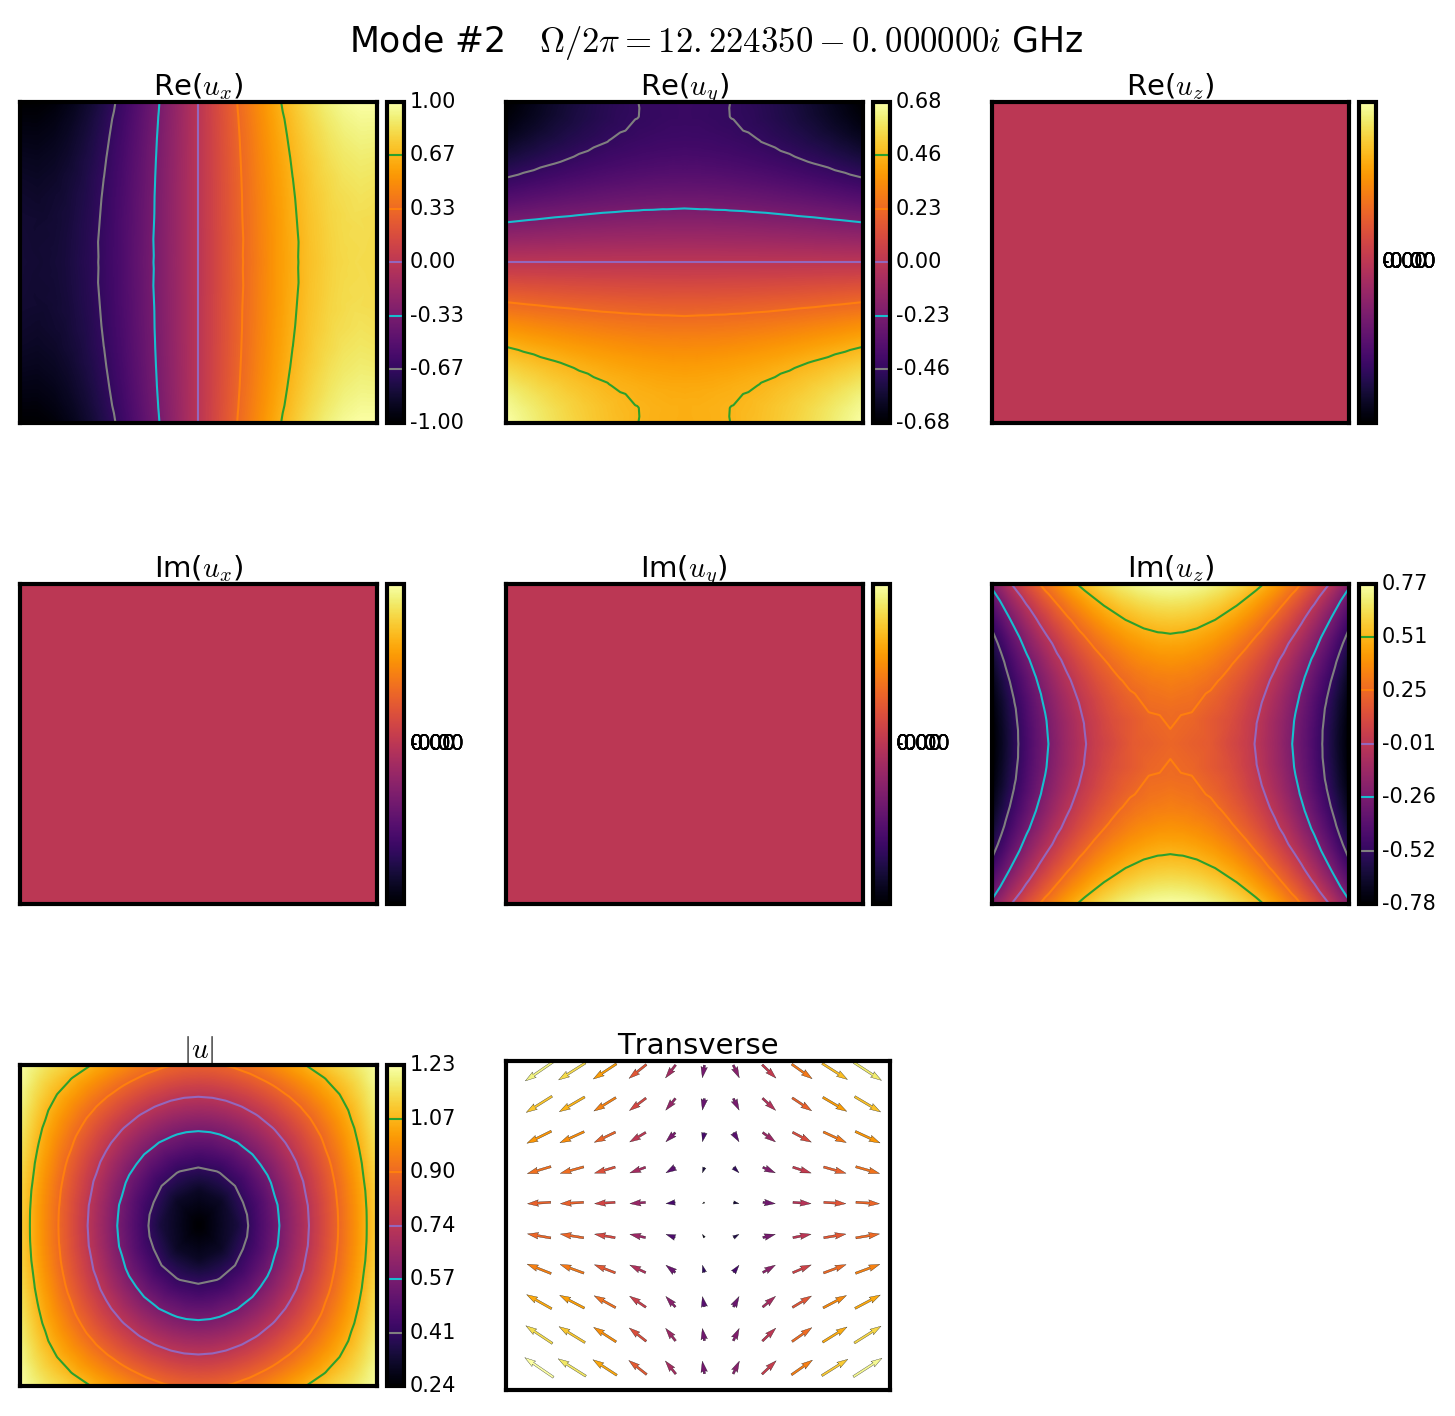
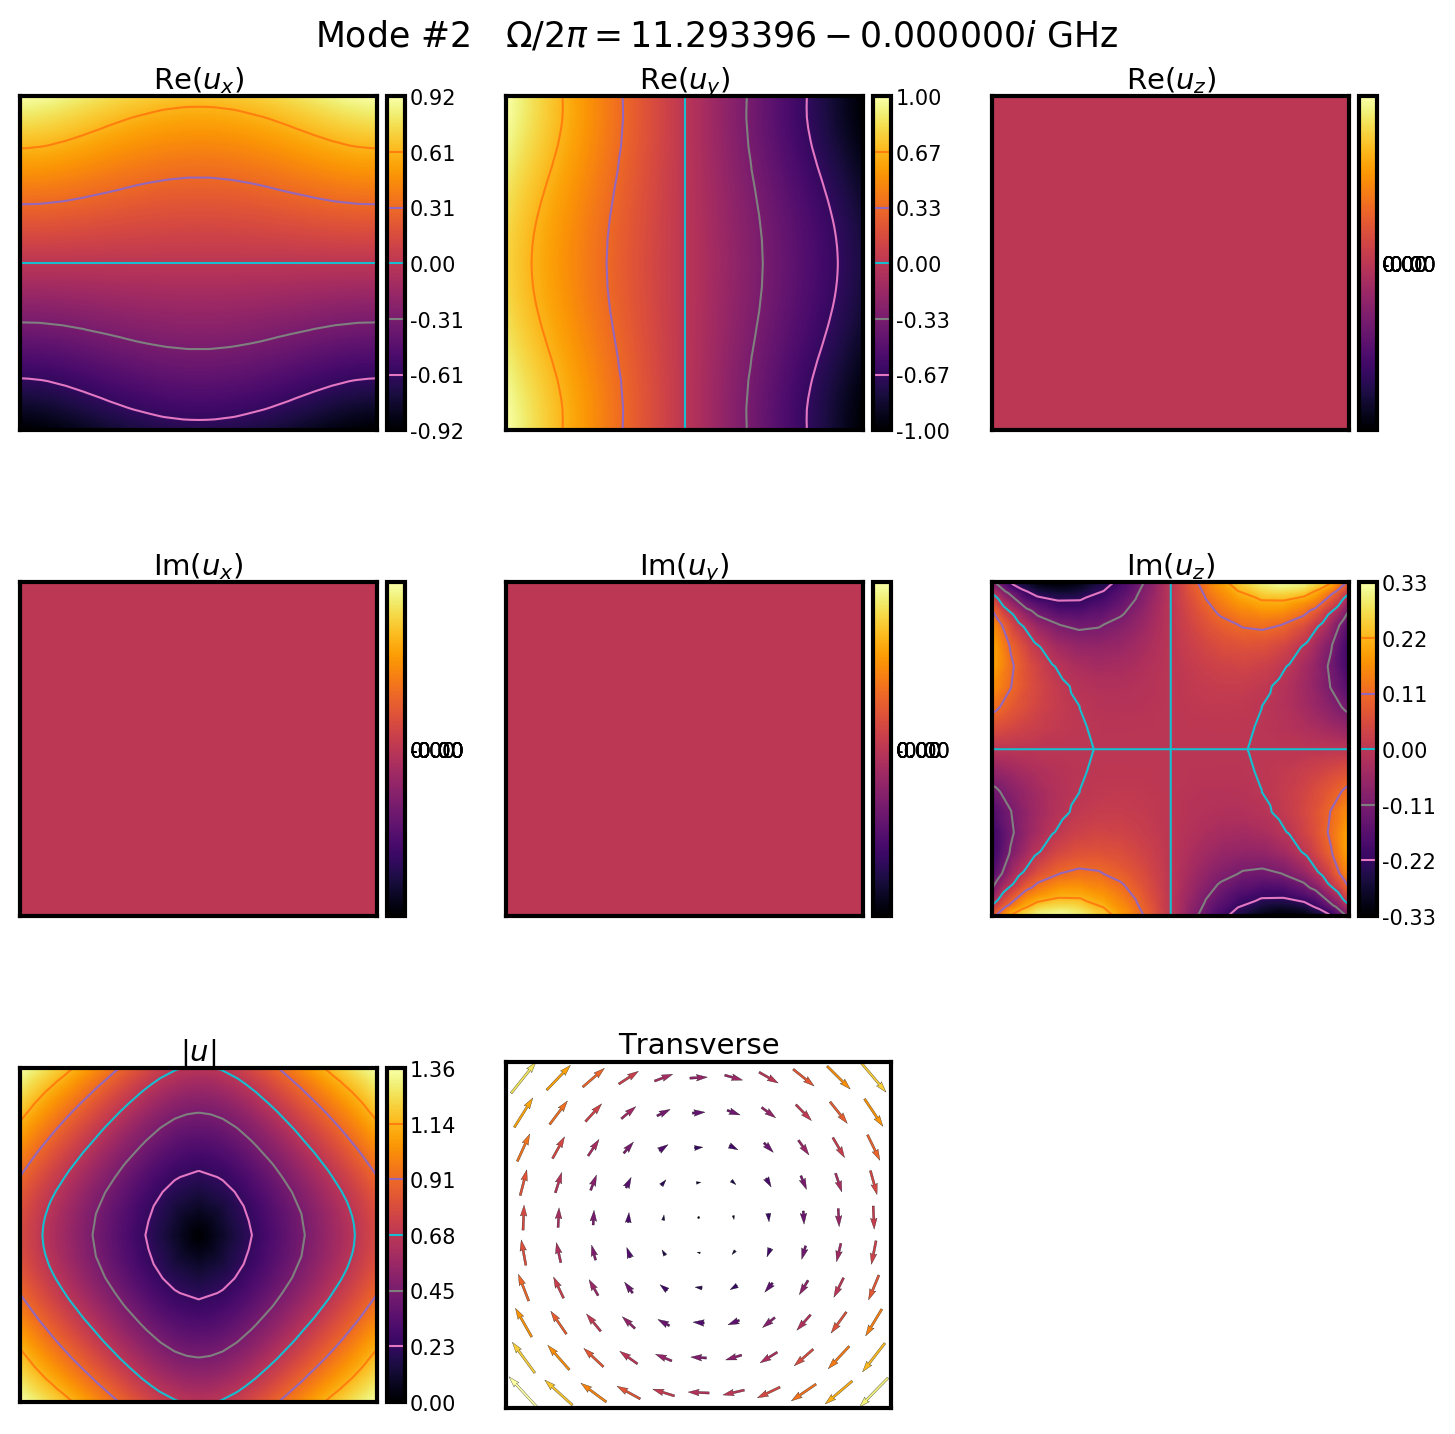
Made early tut waveguide 300 x 280 nm.

diff --git a/tutorials/simo-tut_05-convergence_study.py b/tutorials/simo-tut_05-convergence_study.py
@@ -24,8 +24,8 @@ from fortran import NumBAT
 wl_nm = 1550
 unitcell_x = 2.5*wl_nm
 unitcell_y = unitcell_x
-inc_a_x = 314.7
-inc_a_y = 0.9*inc_a_x
+inc_a_x = 300
+inc_a_y = 280
 inc_shape = 'rectangular'
 
 num_modes_EM_pump = 20
@@ -37,9 +37,9 @@ AC_ival = 'All'
 
 prefix_str = 'tut_05-'
 
-nu_lcs = 4
+nu_lcs = 6
 lc_bkg_list = 4*np.ones(nu_lcs)
-lc_list = np.linspace(5e2,5e3,nu_lcs)
+lc_list = np.linspace(5e2,3e3,nu_lcs)
 x_axis = lc_bkg_list
 x_axis = lc_list
 conv_list = []
@@ -115,7 +115,7 @@ ax2.legend(handles, labels)
 ax1.set_xlabel(xlabel)
 ax1.set_ylabel(r"EM k$_z$ ($\times 10^6$ 1/m)")
 ax2.set_ylabel(r"Relative Error EM k$_z$")
-ax2.set_yscale('log', nonposx='clip')
+ax2.set_yscale('log')#, nonposx='clip')
 plt.savefig(prefix_str+'convergence-freq_EM.pdf', bbox_inches='tight')
 plt.savefig(prefix_str+'convergence-freq_EM.png', bbox_inches='tight')
 plt.close()
@@ -141,7 +141,7 @@ ax2.legend(handles, labels)
 ax1.set_xlabel(xlabel)
 ax1.set_ylabel(r"AC Freq (GHz)")
 ax2.set_ylabel(r"Relative Error AC Freq")
-ax2.set_yscale('log', nonposx='clip')
+ax2.set_yscale('log')#, nonposx='clip')
 plt.savefig(prefix_str+'convergence-freq_AC.pdf', bbox_inches='tight')
 plt.savefig(prefix_str+'convergence-freq_AC.png', bbox_inches='tight')
 plt.close()
@@ -167,7 +167,7 @@ ax2.legend(handles, labels)
 ax1.set_xlabel(xlabel)
 ax1.set_ylabel(r"Gain")
 ax2.set_ylabel(r"Relative Error Gain")
-ax2.set_yscale('log', nonposx='clip')
+ax2.set_yscale('log')#, nonposx='clip')
 plt.savefig(prefix_str+'convergence-Gain.pdf', bbox_inches='tight')
 plt.savefig(prefix_str+'convergence-Gain.png', bbox_inches='tight')
 plt.close()
@@ -193,7 +193,7 @@ ax2.legend(handles, labels)
 ax1.set_xlabel(xlabel)
 ax1.set_ylabel(r"Gain (PE)")
 ax2.set_ylabel(r"Relative Error Gain (PE)")
-ax2.set_yscale('log', nonposx='clip')
+ax2.set_yscale('log')#, nonposx='clip')
 plt.savefig(prefix_str+'convergence-Gain_PE.pdf', bbox_inches='tight')
 plt.savefig(prefix_str+'convergence-Gain_PE.png', bbox_inches='tight')
 plt.close()
@@ -219,7 +219,7 @@ ax2.legend(handles, labels)
 ax1.set_xlabel(xlabel)
 ax1.set_ylabel(r"Gain (MB)")
 ax2.set_ylabel(r"Relative Error Gain (MB)")
-ax2.set_yscale('log', nonposx='clip')
+ax2.set_yscale('log')#, nonposx='clip')
 plt.savefig(prefix_str+'convergence-Gain_MB.pdf', bbox_inches='tight')
 plt.savefig(prefix_str+'convergence-Gain_MB.png', bbox_inches='tight')
 plt.close()

diff --git a/tutorials/simo-tut_03_1-dispersion-npload.py b/tutorials/simo-tut_03_1-dispersion-npload.py
@@ -26,13 +26,13 @@ start = time.time()
 wl_nm = 1550
 unitcell_x = 2.5*wl_nm
 unitcell_y = unitcell_x
-inc_a_x = 314.7
-inc_a_y = 0.9*inc_a_x
+inc_a_x = 300
+inc_a_y = 280
 inc_shape = 'rectangular'
 # Choose modes to include.
 num_modes_EM_pump = 20
 num_modes_EM_Stokes = num_modes_EM_pump
-num_modes_AC = 20
+num_modes_AC = 25
 EM_ival_pump = 0
 EM_ival_Stokes = 0
 AC_ival = 'All'
@@ -45,9 +45,11 @@ wguide = objects.Struct(unitcell_x,inc_a_x,unitcell_y,inc_a_y,inc_shape,
 # Expected effective index of fundamental guided mode.
 n_eff = wguide.material_a.n-0.1
 
-# Calculate Electromagnetic modes.
+# # Calculate Electromagnetic modes.
 # sim_EM_pump = wguide.calc_EM_modes(num_modes_EM_pump, wl_nm, n_eff)
 # np.savez('wguide_data', sim_EM_pump=sim_EM_pump)
+# sim_EM_Stokes = mode_calcs.bkwd_Stokes_modes(sim_EM_pump)
+# np.savez('wguide_data2', sim_EM_Stokes=sim_EM_Stokes)
 
 # Assuming this calculation is run directly after simo-tut_02
 # we don't need to recalculate EM modes, but can load them in.
@@ -81,7 +83,7 @@ for i_ac, q_ac in enumerate(np.linspace(0.0,k_AC,nu_ks)):
             sym_D, = plt.plot(np.real(q_ac/k_AC), Om, '^g')
 
     print("Wavevector loop", i_ac+1, "/", nu_ks)
-ax.set_ylim(0,20)
+ax.set_ylim(0,25)
 ax.set_xlim(0,1)
 plt.legend([sym_A, sym_B, sym_C, sym_D],['E',r'C$_2$',r'$\sigma_y$',r'$\sigma_x$'], loc='lower right')
 plt.xlabel(r'Axial wavevector (normalised)')

diff --git a/lit_examples/simo-lit_05-Van_Laer-NJP_2015.py b/lit_examples/simo-lit_05-Van_Laer-NJP_2015.py
@@ -67,6 +67,7 @@ sim_EM_Stokes = mode_calcs.fwd_Stokes_modes(sim_EM_pump)
 
 plotting.plt_mode_fields(sim_EM_pump, xlim_min=0.45, xlim_max=0.45, ivals=[0], 
                          ylim_min=0.45, ylim_max=0.45, EM_AC='EM_E', 
+                         n_points=1500, 
                          prefix_str=prefix_str, pdf_png='png')
 
 # Print the wavevectors of EM modes.

diff --git a/backend/materials.py b/backend/materials.py
@@ -387,9 +387,9 @@ def isotropic_stiffness(E, v):
     Ref: www.efunda.com/formulae/solid_mechanics/mat_mechanics/hooke_isotropic.cfm
 
     Args:
-        E  (float): Youngs_modulus
+        E  (float): Youngs modulus
 
-        v  (float): Poisson_ratio
+        v  (float): Poisson ratio
     """
     c_11 = E*(1-v)/((1+v)*(1-2*v))
     c_12 = E*(v)/((1+v)*(1-2*v))

diff --git a/tutorials/simo-tut_02-gain_spectra-npsave.py b/tutorials/simo-tut_02-gain_spectra-npsave.py
@@ -32,13 +32,13 @@ start = time.time()
 wl_nm = 1550
 unitcell_x = 2.5*wl_nm
 unitcell_y = unitcell_x
-inc_a_x = 314.7
-inc_a_y = 0.9*inc_a_x
+inc_a_x = 300
+inc_a_y = 280
 inc_shape = 'rectangular'
 
 num_modes_EM_pump = 20
 num_modes_EM_Stokes = num_modes_EM_pump
-num_modes_AC = 20
+num_modes_AC = 25
 EM_ival_pump = 0
 EM_ival_Stokes = 0
 AC_ival = 'All'

diff --git a/tutorials/simo-tut_01-first_calc.py b/tutorials/simo-tut_01-first_calc.py
@@ -31,8 +31,8 @@ wl_nm = 1550 # Wavelength of EM wave in vacuum.
 unitcell_x = 2.5*wl_nm
 unitcell_y = unitcell_x
 # Waveguide widths.
-inc_a_x = 314.7
-inc_a_y = 0.9*inc_a_x
+inc_a_x = 300
+inc_a_y = 280
 # Shape of the waveguide.
 inc_shape = 'rectangular'
 
